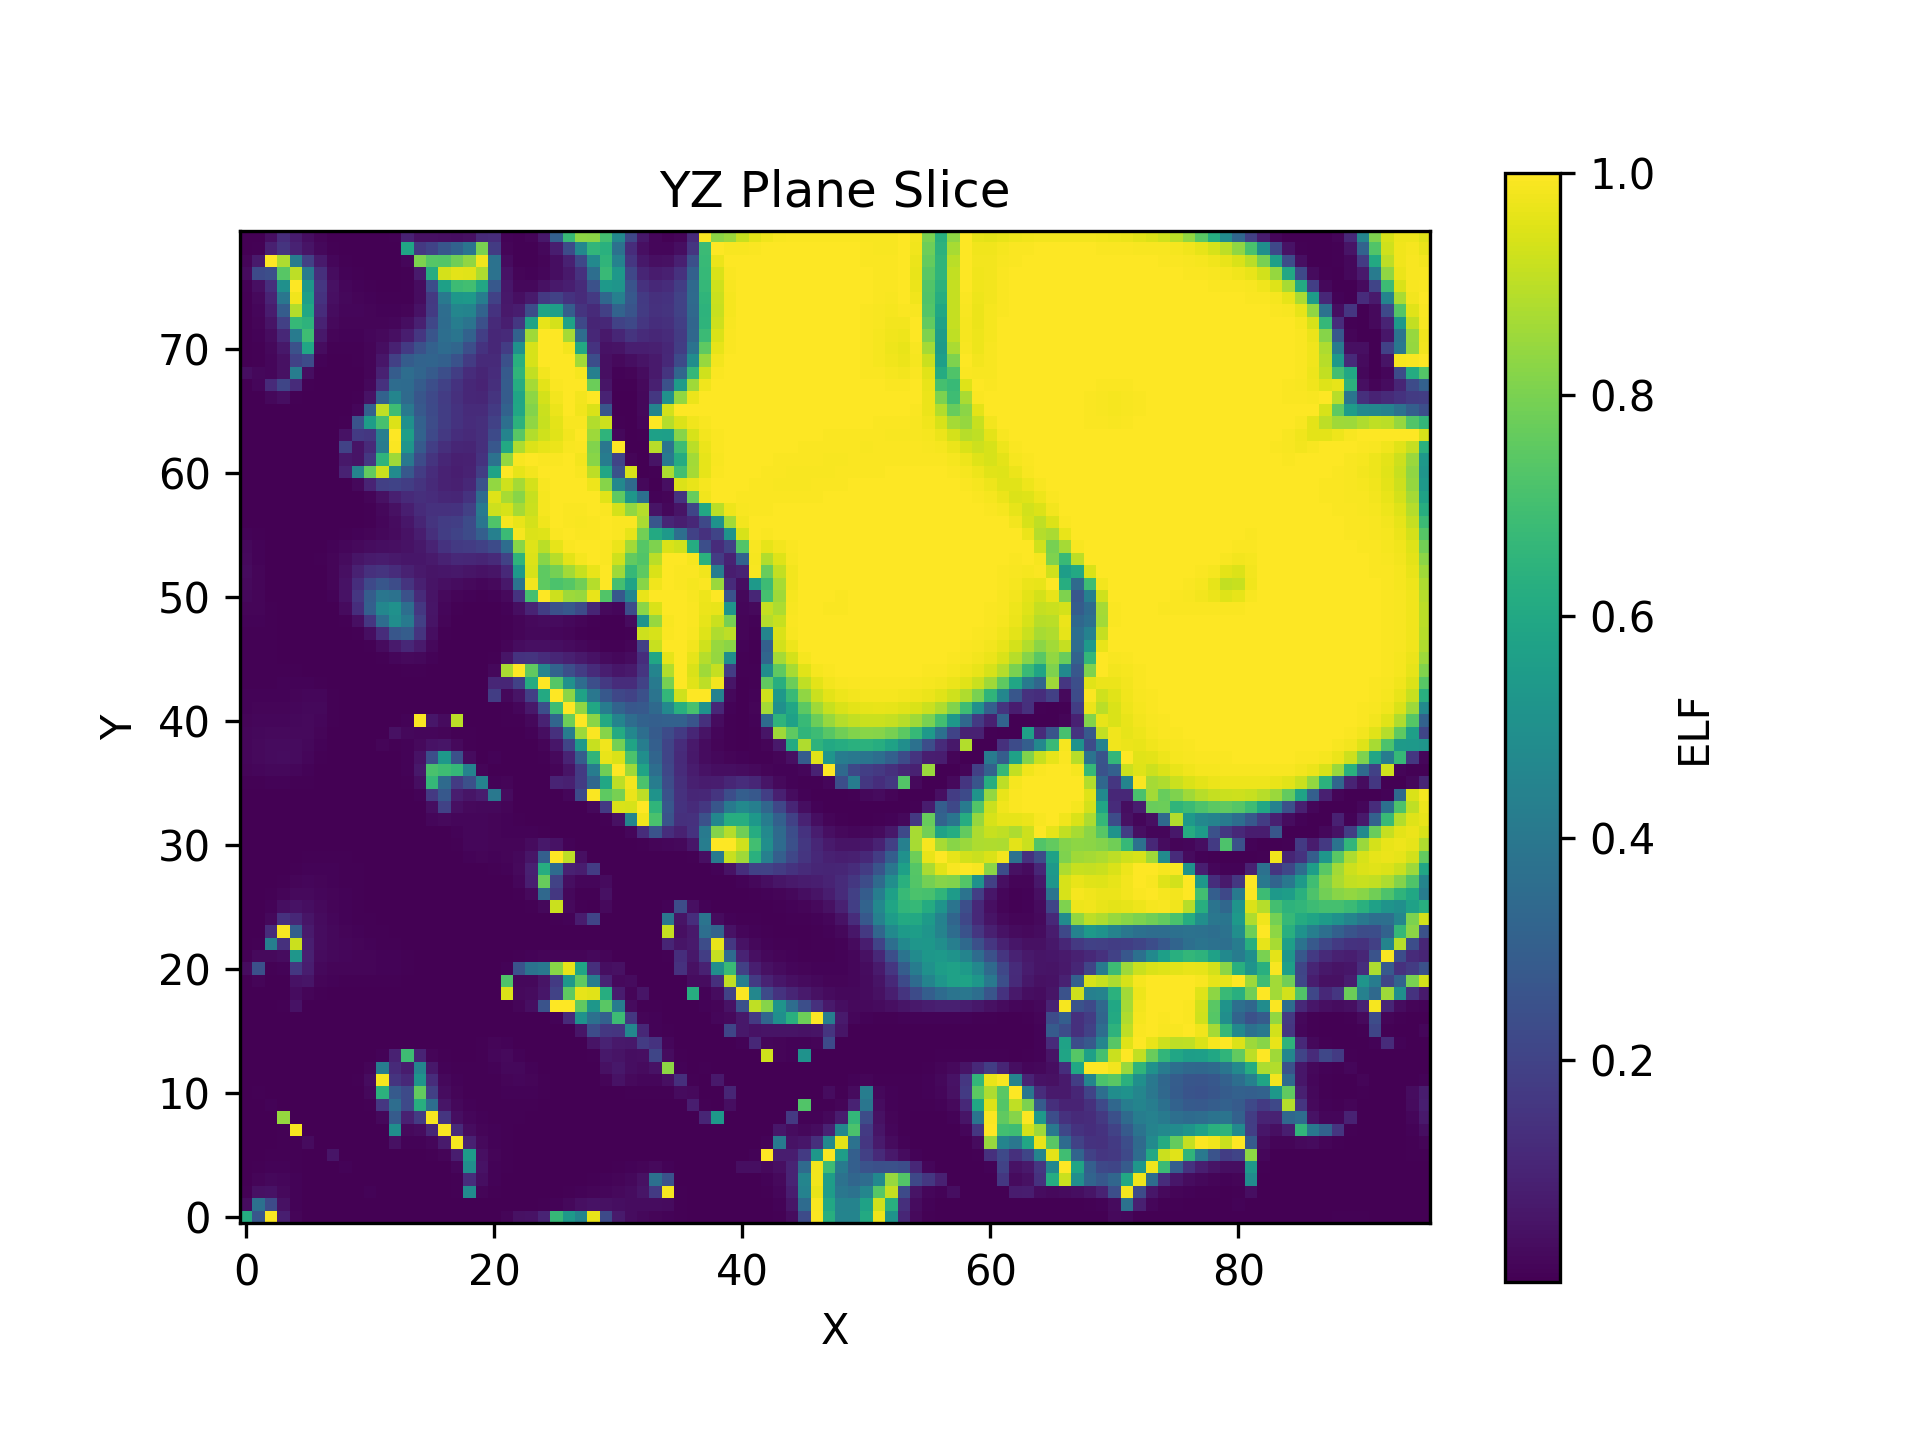
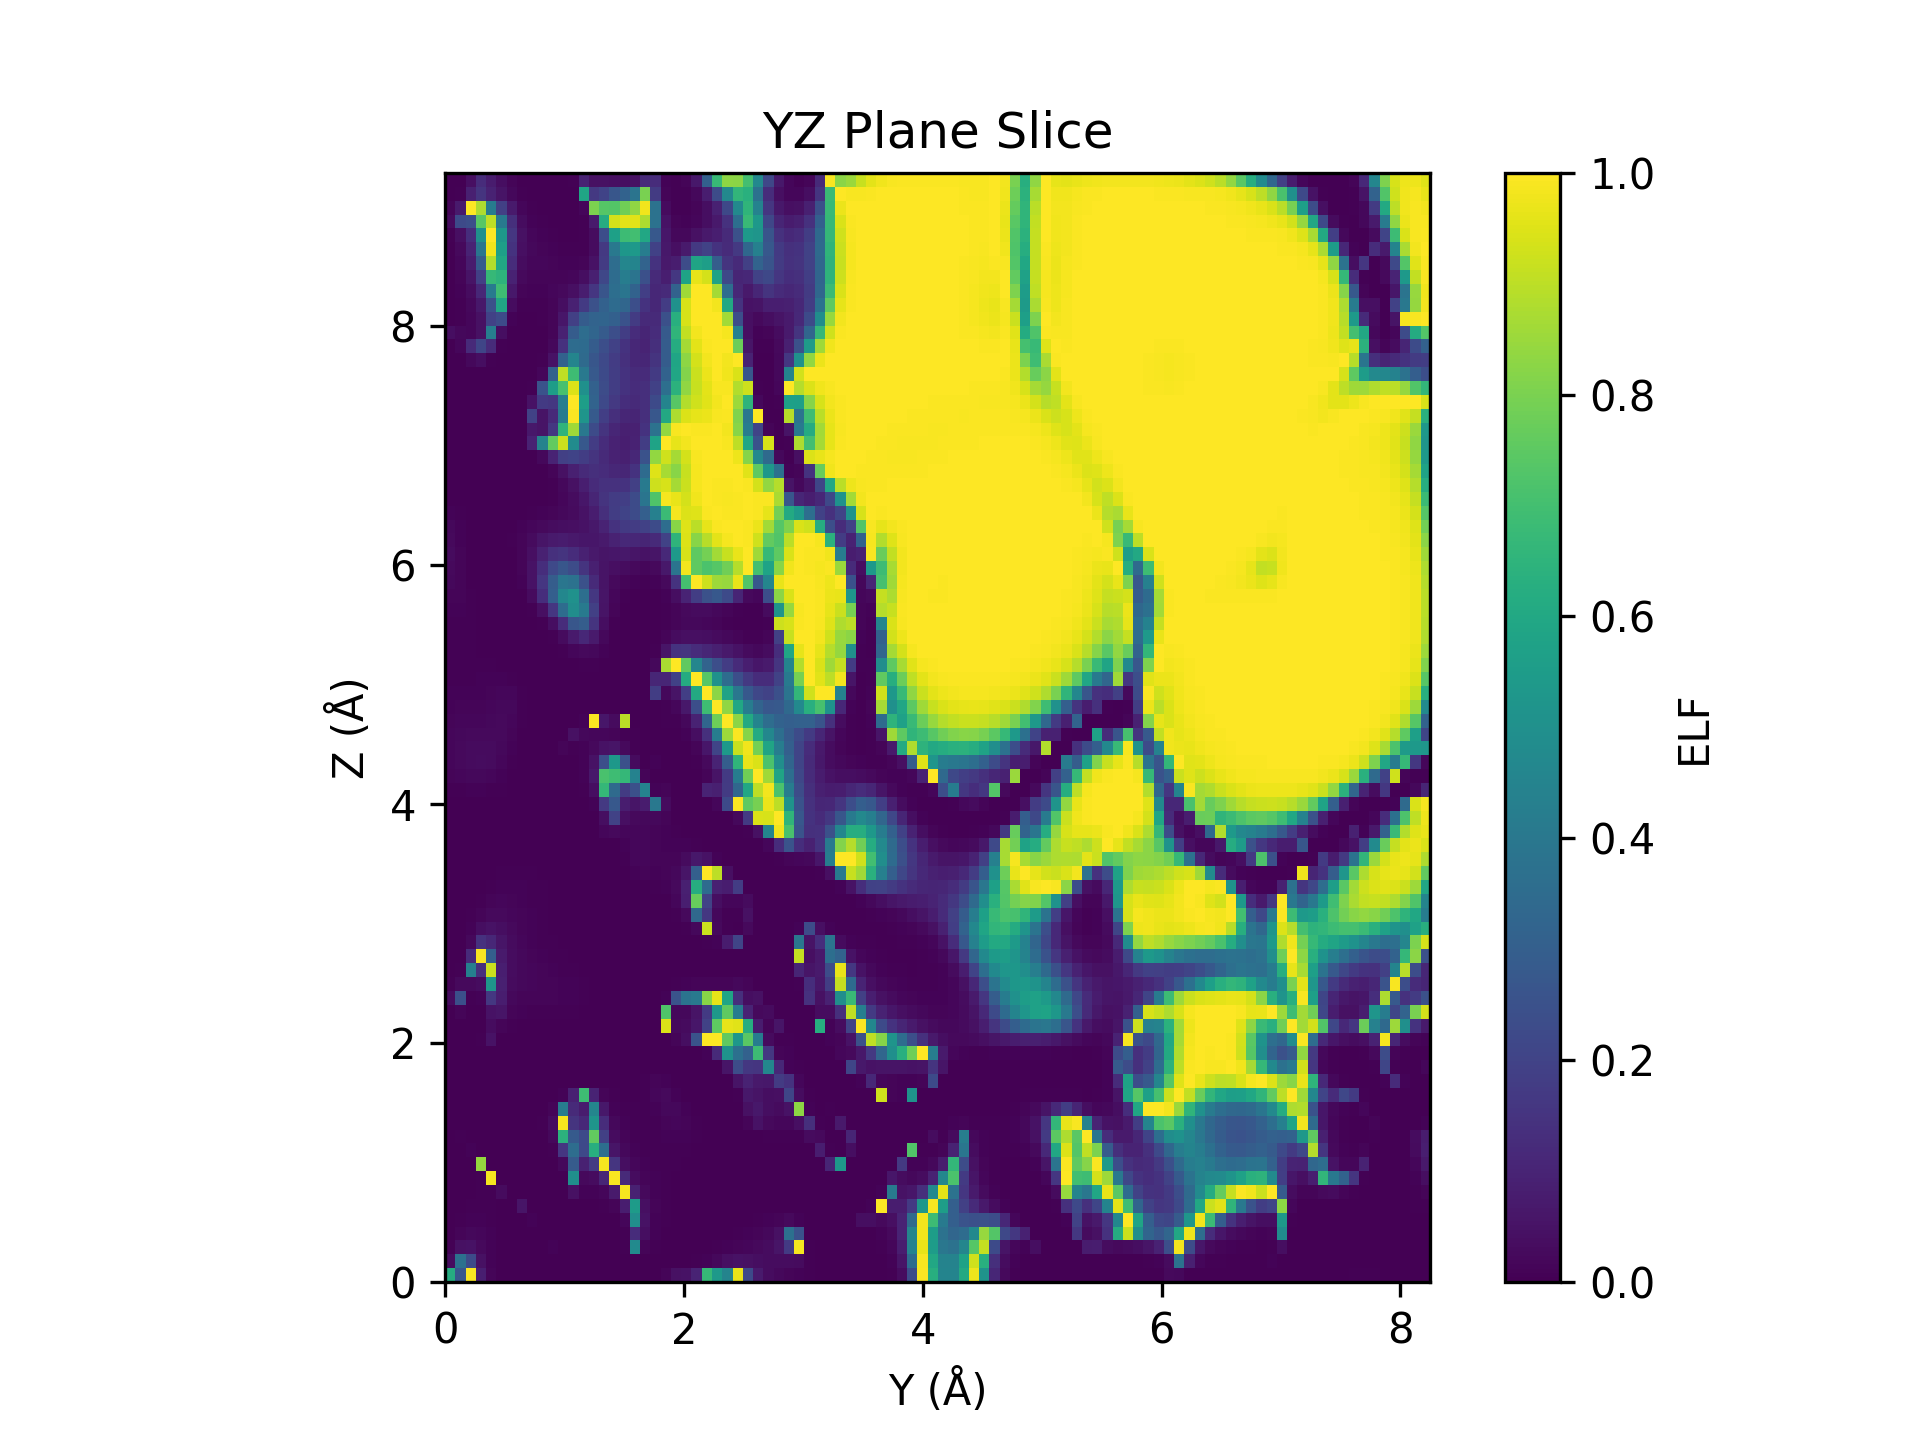
plot elf slices

diff --git a/test2/plot_slice.py b/test2/plot_slice.py
@@ -1,10 +1,12 @@
 #%%
-import numpy as np
 import matplotlib.pyplot as plt
+from ase.io.xsf import read_xsf
 
-def load_elf_data(file_path):
-    """Load ELF data from a .npy file."""
-    return np.load(file_path)
+def read_elf_data_xsf(file_path):
+    """Read ELF data and metadata from an XSF file."""
+    with open(file_path, 'r') as f:
+        data, origin, span_vectors, atoms = read_xsf(f, read_data=True)
+    return data, origin, span_vectors, atoms
 
 def extract_slice(elf_data, plane_index, axis=0):
     """Extract a 2D slice from 3D ELF data."""
@@ -17,20 +19,24 @@ def extract_slice(elf_data, plane_index, axis=0):
     else:
         raise ValueError('Invalid axis for slicing')
 
-def plot_and_save_slice(slice_data, title, filename):
+def plot_and_save_slice(slice_data, title, filename, extent, axis_labels):
     """Plot a 2D slice and save it as a PNG file."""
-    plt.imshow(slice_data, cmap='viridis', origin='lower')
+    plt.imshow(slice_data, cmap='viridis', origin='lower', extent=extent)
     plt.colorbar(label='ELF')
     plt.title(title)
-    plt.xlabel('X')
-    plt.ylabel('Y')
+    plt.xlabel(axis_labels[0] + ' (Å)')
+    plt.ylabel(axis_labels[1] + ' (Å)')
     # Save the plot as a PNG file with 300 DPI
     plt.savefig(filename, format='png', dpi=300)
     plt.close()
 
 def main():
-    # Load ELF data
-    elf_data = load_elf_data('elf.npy')  # Ensure this file exists
+    # Load ELF data and metadata from the XSF file
+    elf_data, origin, span_vectors, atoms = read_elf_data_xsf('elf.xsf')  # Ensure this file exists
+
+    # Print the lattice vectors
+    print("Lattice Vectors (span vectors):")
+    print(span_vectors)
 
     # Determine the shape of the ELF data
     elf_shape = elf_data.shape
@@ -45,10 +51,10 @@ def main():
     yz_slice = extract_slice(elf_data, yz_plane_index, axis=0)
     zx_slice = extract_slice(elf_data, zx_plane_index, axis=1)
 
-    # Plot and save slices
-    plot_and_save_slice(xy_slice, 'XY Plane Slice', 'xy_plane_slice.png')
-    plot_and_save_slice(yz_slice, 'YZ Plane Slice', 'yz_plane_slice.png')
-    plot_and_save_slice(zx_slice, 'ZX Plane Slice', 'zx_plane_slice.png')
+    # Plot and save slices with correct extents
+    plot_and_save_slice(xy_slice, 'XY Plane Slice', 'xy_plane_slice.png', [0, span_vectors[0, 0], 0, span_vectors[1, 1]], ['X', 'Y'])
+    plot_and_save_slice(yz_slice, 'YZ Plane Slice', 'yz_plane_slice.png', [0, span_vectors[1, 1], 0, span_vectors[2, 2]], ['Y', 'Z'])
+    plot_and_save_slice(zx_slice, 'ZX Plane Slice', 'zx_plane_slice.png', [0, span_vectors[2, 2], 0, span_vectors[0, 0]], ['Z', 'X'])
 
 if __name__ == "__main__":
     main()
